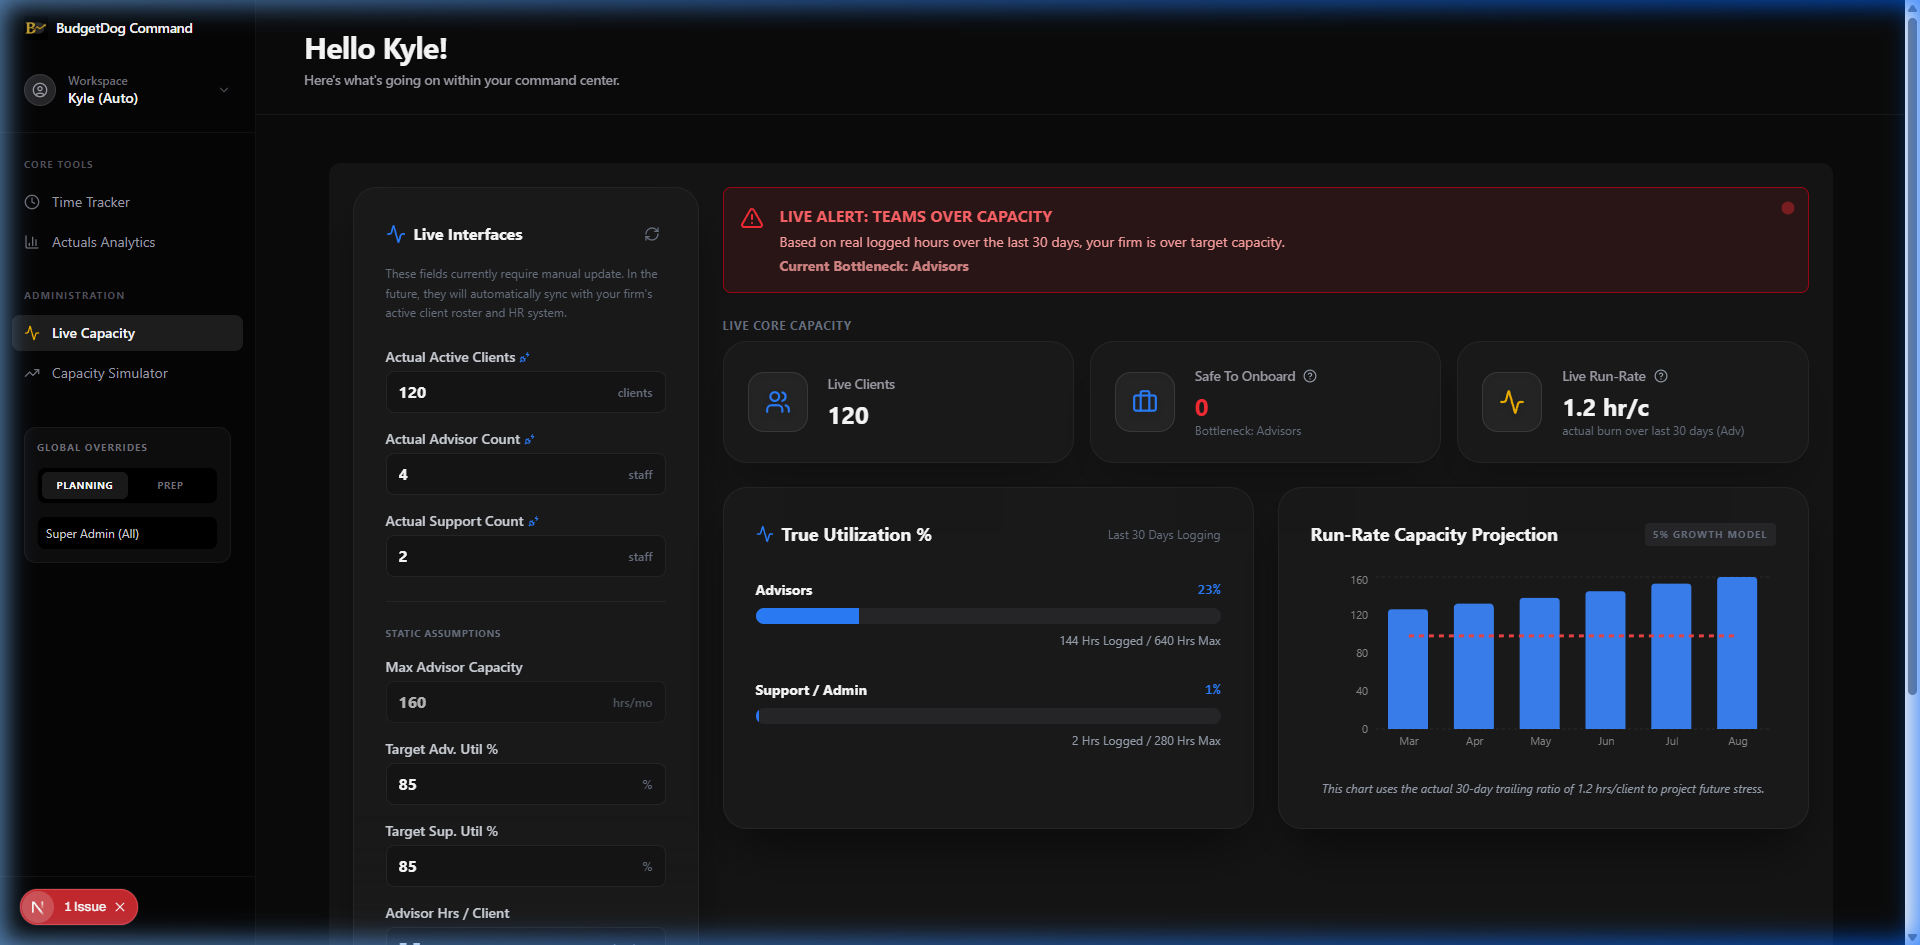
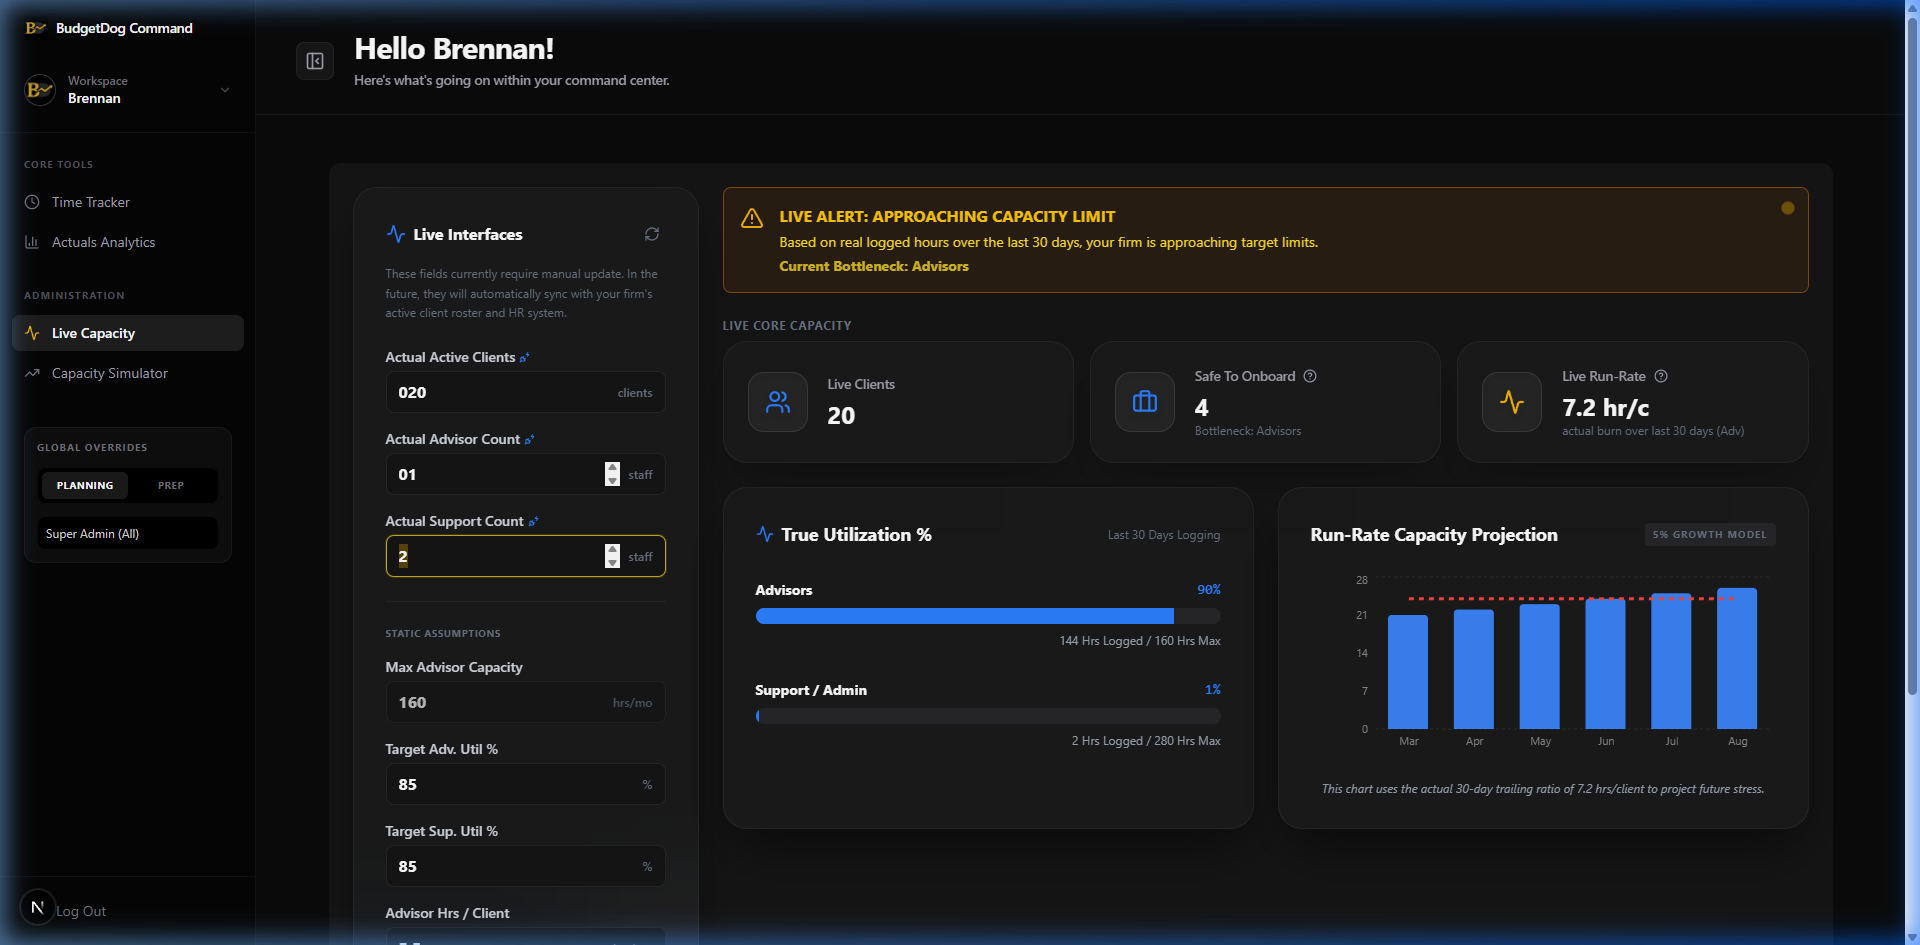
feat(ui): invert Live Capacity layout so inputs render on left panel

diff --git a/app/dashboard/page.tsx b/app/dashboard/page.tsx
@@ -8,7 +8,7 @@ import ActualsDashboard from "@/components/ActualsDashboard";
 import { useAuth } from "@/context/AuthContext";
 import { useRouter } from "next/navigation";
 import { Tab, TabsList } from "@/components/Tabs";
-import { Clock, TrendingUp, BarChart3, LayoutDashboard, Activity, Settings, UserCircle, LogOut, ChevronDown } from "lucide-react";
+import { Clock, TrendingUp, BarChart3, LayoutDashboard, Activity, Settings, UserCircle, LogOut, ChevronDown, PanelLeftClose, PanelLeft } from "lucide-react";
 import Lenis from 'lenis';
 import ProfileModal from "@/components/ProfileModal";
 import Image from "next/image";
@@ -18,6 +18,14 @@ export default function Dashboard() {
     const router = useRouter();
     const [activeTab, setActiveTab] = useState<"time" | "capacity" | "live" | "actuals">("time");
     const [isProfileOpen, setIsProfileOpen] = useState(false);
+    const [isSidebarOpen, setIsSidebarOpen] = useState(true);
+
+    const toggleSidebar = () => {
+        setIsSidebarOpen(prev => !prev);
+        if (typeof navigator !== "undefined" && navigator.vibrate) {
+            navigator.vibrate(50);
+        }
+    };
 
     const wrapperRef = useRef<HTMLElement>(null);
     const contentRef = useRef<HTMLDivElement>(null);
@@ -91,128 +99,132 @@ export default function Dashboard() {
             {/* ═══════════════════════════════════════════
                 LEFT SIDEBAR
             ═══════════════════════════════════════════ */}
-            <aside className="w-64 flex flex-col border-r border-white/5 bg-[#050505] shrink-0 z-50">
-                {/* Brand & Workspace Hub */}
-                <div className="p-4 border-b border-white/5">
-                    <div className="flex items-center gap-2 mb-6 px-2">
-                        <Image src="/logo1.png" alt="Budgetdog Logo" width={24} height={24} className="object-contain" />
-                        <span className="font-semibold tracking-tight text-sm">BudgetDog Command</span>
+            <aside
+                className={`flex flex-col bg-[#050505] shrink-0 z-50 transition-all duration-300 ease-[cubic-bezier(0.16,1,0.3,1)] overflow-hidden ${isSidebarOpen ? "w-64 border-r border-white/5 opacity-100" : "w-0 border-r-0 opacity-0"}`}
+            >
+                <div className="w-64 h-full flex flex-col">
+                    {/* Brand & Workspace Hub */}
+                    <div className="p-4 border-b border-white/5">
+                        <div className="flex items-center gap-2 mb-6 px-2">
+                            <Image src="/logo1.png" alt="Budgetdog Logo" width={24} height={24} className="object-contain" />
+                            <span className="font-semibold tracking-tight text-sm">BudgetDog Command</span>
+                        </div>
+
+                        <button
+                            onClick={() => setIsProfileOpen(true)}
+                            className="w-full flex items-center justify-between p-2 rounded-lg hover:bg-white/5 transition-colors group"
+                        >
+                            <div className="flex items-center gap-3">
+                                <div className="w-8 h-8 rounded-full bg-zinc-800 flex items-center justify-center border border-white/10 shrink-0">
+                                    {user.avatarUrl ? (
+                                        <img src={user.avatarUrl} alt="Avatar" className="w-full h-full rounded-full object-cover" />
+                                    ) : (
+                                        <UserCircle size={16} className="text-zinc-400" />
+                                    )}
+                                </div>
+                                <div className="flex flex-col items-start overflow-hidden">
+                                    <span className="text-xs text-zinc-500 font-medium">Workspace</span>
+                                    <span className="text-sm font-semibold truncate w-[120px] text-left group-hover:text-yellow-500 transition-colors">{user.name}</span>
+                                </div>
+                            </div>
+                            <ChevronDown size={14} className="text-zinc-600 group-hover:text-zinc-400 transition-colors" />
+                        </button>
                     </div>
 
-                    <button
-                        onClick={() => setIsProfileOpen(true)}
-                        className="w-full flex items-center justify-between p-2 rounded-lg hover:bg-white/5 transition-colors group"
-                    >
-                        <div className="flex items-center gap-3">
-                            <div className="w-8 h-8 rounded-full bg-zinc-800 flex items-center justify-center border border-white/10 shrink-0">
-                                {user.avatarUrl ? (
-                                    <img src={user.avatarUrl} alt="Avatar" className="w-full h-full rounded-full object-cover" />
-                                ) : (
-                                    <UserCircle size={16} className="text-zinc-400" />
-                                )}
-                            </div>
-                            <div className="flex flex-col items-start overflow-hidden">
-                                <span className="text-xs text-zinc-500 font-medium">Workspace</span>
-                                <span className="text-sm font-semibold truncate w-[120px] text-left group-hover:text-yellow-500 transition-colors">{user.name}</span>
-                            </div>
-                        </div>
-                        <ChevronDown size={14} className="text-zinc-600 group-hover:text-zinc-400 transition-colors" />
-                    </button>
-                </div>
+                    {/* Main Navigation */}
+                    <nav className="flex-1 py-4 px-3 flex flex-col gap-1 overflow-y-auto">
+                        <p className="px-3 text-[10px] font-bold uppercase tracking-widest text-zinc-600 mb-2 mt-2">Core Tools</p>
 
-                {/* Main Navigation */}
-                <nav className="flex-1 py-4 px-3 flex flex-col gap-1 overflow-y-auto">
-                    <p className="px-3 text-[10px] font-bold uppercase tracking-widest text-zinc-600 mb-2 mt-2">Core Tools</p>
+                        <button
+                            onClick={() => setActiveTab("time")}
+                            className={`flex items-center gap-3 px-3 py-2 rounded-lg text-sm transition-all duration-200 ${activeTab === "time" ? "bg-white/10 text-white font-medium shadow-sm" : "text-zinc-400 hover:text-white hover:bg-white/5"
+                                }`}
+                        >
+                            <Clock size={16} className={activeTab === "time" ? "text-yellow-500" : "text-zinc-500"} />
+                            Time Tracker
+                        </button>
 
-                    <button
-                        onClick={() => setActiveTab("time")}
-                        className={`flex items-center gap-3 px-3 py-2 rounded-lg text-sm transition-all duration-200 ${activeTab === "time" ? "bg-white/10 text-white font-medium shadow-sm" : "text-zinc-400 hover:text-white hover:bg-white/5"
-                            }`}
-                    >
-                        <Clock size={16} className={activeTab === "time" ? "text-yellow-500" : "text-zinc-500"} />
-                        Time Tracker
-                    </button>
+                        <button
+                            onClick={() => setActiveTab("actuals")}
+                            className={`flex items-center gap-3 px-3 py-2 rounded-lg text-sm transition-all duration-200 ${activeTab === "actuals" ? "bg-white/10 text-white font-medium shadow-sm" : "text-zinc-400 hover:text-white hover:bg-white/5"
+                                }`}
+                        >
+                            <BarChart3 size={16} className={activeTab === "actuals" ? "text-yellow-500" : "text-zinc-500"} />
+                            Actuals Analytics
+                        </button>
 
-                    <button
-                        onClick={() => setActiveTab("actuals")}
-                        className={`flex items-center gap-3 px-3 py-2 rounded-lg text-sm transition-all duration-200 ${activeTab === "actuals" ? "bg-white/10 text-white font-medium shadow-sm" : "text-zinc-400 hover:text-white hover:bg-white/5"
-                            }`}
-                    >
-                        <BarChart3 size={16} className={activeTab === "actuals" ? "text-yellow-500" : "text-zinc-500"} />
-                        Actuals Analytics
-                    </button>
+                        {isAdminView && (
+                            <>
+                                <p className="px-3 text-[10px] font-bold uppercase tracking-widest text-zinc-600 mb-2 mt-6">Administration</p>
 
-                    {isAdminView && (
-                        <>
-                            <p className="px-3 text-[10px] font-bold uppercase tracking-widest text-zinc-600 mb-2 mt-6">Administration</p>
-
-                            <button
-                                onClick={() => setActiveTab("live")}
-                                className={`flex items-center gap-3 px-3 py-2 rounded-lg text-sm transition-all duration-200 ${activeTab === "live" ? "bg-white/10 text-white font-medium shadow-sm" : "text-zinc-400 hover:text-white hover:bg-white/5"
-                                    }`}
-                            >
-                                <Activity size={16} className={activeTab === "live" ? "text-yellow-500" : "text-zinc-500"} />
-                                Live Capacity
-                            </button>
-
-                            <button
-                                onClick={() => setActiveTab("capacity")}
-                                className={`flex items-center gap-3 px-3 py-2 rounded-lg text-sm transition-all duration-200 ${activeTab === "capacity" ? "bg-white/10 text-white font-medium shadow-sm" : "text-zinc-400 hover:text-white hover:bg-white/5"
-                                    }`}
-                            >
-                                <TrendingUp size={16} className={activeTab === "capacity" ? "text-yellow-500" : "text-zinc-500"} />
-                                Capacity Simulator
-                            </button>
-                        </>
-                    )}
-
-                    {user.isSuperAdmin && (
-                        <div className="mt-8 px-3">
-                            <div className="p-3 bg-zinc-900/50 border border-white/5 rounded-xl">
-                                <p className="text-[10px] font-bold uppercase tracking-widest text-zinc-500 mb-3">Global Overrides</p>
-
-                                {/* Division Toggle */}
-                                <div className="flex items-center bg-black rounded-lg p-1 border border-white/5 mb-3">
-                                    <button
-                                        onClick={() => setDivision("planning")}
-                                        className={`flex-1 py-1.5 rounded-md text-[10px] font-bold uppercase tracking-wider transition-all ${division === "planning" ? "bg-white/10 text-white shadow-sm" : "text-zinc-500 hover:text-white"
-                                            }`}
-                                    >
-                                        Planning
-                                    </button>
-                                    <button
-                                        onClick={() => setDivision("preparation")}
-                                        className={`flex-1 py-1.5 rounded-md text-[10px] font-bold uppercase tracking-wider transition-all ${division === "preparation" ? "bg-white/10 text-white shadow-sm" : "text-zinc-500 hover:text-white"
-                                            }`}
-                                    >
-                                        Prep
-                                    </button>
-                                </div>
-
-                                {/* View Selector */}
-                                <select
-                                    value={viewMode}
-                                    onChange={(e) => setViewMode(e.target.value as any)}
-                                    className="w-full bg-black border border-white/5 text-zinc-300 text-xs rounded-lg px-2 py-2 focus:outline-none focus:ring-1 focus:ring-yellow-500/50 appearance-none cursor-pointer"
+                                <button
+                                    onClick={() => setActiveTab("live")}
+                                    className={`flex items-center gap-3 px-3 py-2 rounded-lg text-sm transition-all duration-200 ${activeTab === "live" ? "bg-white/10 text-white font-medium shadow-sm" : "text-zinc-400 hover:text-white hover:bg-white/5"
+                                        }`}
                                 >
-                                    {currentViews.map(v => (
-                                        <option key={v.value} value={v.value}>{v.label}</option>
-                                    ))}
-                                </select>
-                            </div>
-                        </div>
-                    )}
-                </nav>
+                                    <Activity size={16} className={activeTab === "live" ? "text-yellow-500" : "text-zinc-500"} />
+                                    Live Capacity
+                                </button>
 
-                {/* Footer Controls */}
-                <div className="p-4 border-t border-white/5">
-                    <button
-                        onClick={logout}
-                        className="w-full flex items-center gap-3 px-3 py-2 rounded-lg text-sm text-zinc-500 hover:text-red-400 hover:bg-red-400/10 transition-colors"
-                    >
-                        <LogOut size={16} />
-                        Log Out
-                    </button>
+                                <button
+                                    onClick={() => setActiveTab("capacity")}
+                                    className={`flex items-center gap-3 px-3 py-2 rounded-lg text-sm transition-all duration-200 ${activeTab === "capacity" ? "bg-white/10 text-white font-medium shadow-sm" : "text-zinc-400 hover:text-white hover:bg-white/5"
+                                        }`}
+                                >
+                                    <TrendingUp size={16} className={activeTab === "capacity" ? "text-yellow-500" : "text-zinc-500"} />
+                                    Capacity Simulator
+                                </button>
+                            </>
+                        )}
+
+                        {user.isSuperAdmin && (
+                            <div className="mt-8 px-3">
+                                <div className="p-3 bg-zinc-900/50 border border-white/5 rounded-xl">
+                                    <p className="text-[10px] font-bold uppercase tracking-widest text-zinc-500 mb-3">Global Overrides</p>
+
+                                    {/* Division Toggle */}
+                                    <div className="flex items-center bg-black rounded-lg p-1 border border-white/5 mb-3">
+                                        <button
+                                            onClick={() => setDivision("planning")}
+                                            className={`flex-1 py-1.5 rounded-md text-[10px] font-bold uppercase tracking-wider transition-all ${division === "planning" ? "bg-white/10 text-white shadow-sm" : "text-zinc-500 hover:text-white"
+                                                }`}
+                                        >
+                                            Planning
+                                        </button>
+                                        <button
+                                            onClick={() => setDivision("preparation")}
+                                            className={`flex-1 py-1.5 rounded-md text-[10px] font-bold uppercase tracking-wider transition-all ${division === "preparation" ? "bg-white/10 text-white shadow-sm" : "text-zinc-500 hover:text-white"
+                                                }`}
+                                        >
+                                            Prep
+                                        </button>
+                                    </div>
+
+                                    {/* View Selector */}
+                                    <select
+                                        value={viewMode}
+                                        onChange={(e) => setViewMode(e.target.value as any)}
+                                        className="w-full bg-black border border-white/5 text-zinc-300 text-xs rounded-lg px-2 py-2 focus:outline-none focus:ring-1 focus:ring-yellow-500/50 appearance-none cursor-pointer"
+                                    >
+                                        {currentViews.map(v => (
+                                            <option key={v.value} value={v.value}>{v.label}</option>
+                                        ))}
+                                    </select>
+                                </div>
+                            </div>
+                        )}
+                    </nav>
+
+                    {/* Footer Controls */}
+                    <div className="p-4 border-t border-white/5">
+                        <button
+                            onClick={logout}
+                            className="w-full flex items-center gap-3 px-3 py-2 rounded-lg text-sm text-zinc-500 hover:text-red-400 hover:bg-red-400/10 transition-colors"
+                        >
+                            <LogOut size={16} />
+                            Log Out
+                        </button>
+                    </div>
                 </div>
             </aside>
 
@@ -223,13 +235,22 @@ export default function Dashboard() {
                 <div ref={contentRef} className="min-h-full pb-24">
 
                     {/* Sticky Main Header */}
-                    <div className="sticky top-0 z-40 bg-[#0A0A0A]/80 backdrop-blur-2xl border-b border-white/5 pt-8 pb-6 px-8 sm:px-12">
-                        <h1 className="text-3xl font-bold tracking-tight text-white m-0 leading-none">
-                            Hello {user.name.split(' ')[0]}!
-                        </h1>
-                        <p className="text-sm text-zinc-400 mt-2 font-medium tracking-tight">
-                            Here's what's going on within your command center.
-                        </p>
+                    <div className="sticky top-0 z-40 bg-[#0A0A0A]/80 backdrop-blur-2xl border-b border-white/5 pt-8 pb-6 px-8 sm:px-12 flex items-center gap-5">
+                        <button
+                            onClick={toggleSidebar}
+                            className="p-2 -ml-2 rounded-lg bg-white/5 border border-white/5 hover:bg-white/10 text-zinc-400 hover:text-white transition-all active:scale-95"
+                            aria-label="Toggle Sidebar"
+                        >
+                            {isSidebarOpen ? <PanelLeftClose size={20} /> : <PanelLeft size={20} />}
+                        </button>
+                        <div>
+                            <h1 className="text-3xl font-bold tracking-tight text-white m-0 leading-none">
+                                Hello {user.name.split(' ')[0]}!
+                            </h1>
+                            <p className="text-sm text-zinc-400 mt-2 font-medium tracking-tight">
+                                Here's what's going on within your command center.
+                            </p>
+                        </div>
                     </div>
 
                     {/* Dashboard Rendering Zone */}

diff --git a/app/page.tsx b/app/page.tsx
@@ -271,7 +271,7 @@ export default function LandingPage() {
             {/* Actual App Screenshot */}
             <div className="relative aspect-[16/9] w-full rounded-lg sm:rounded-2xl overflow-hidden border border-white/5 bg-[#0a0a0a]">
               <Image
-                src="/hero-abstract.png"
+                src="/bento-live.png"
                 alt="Budgetdog Command Center Dashboard"
                 fill
                 priority
